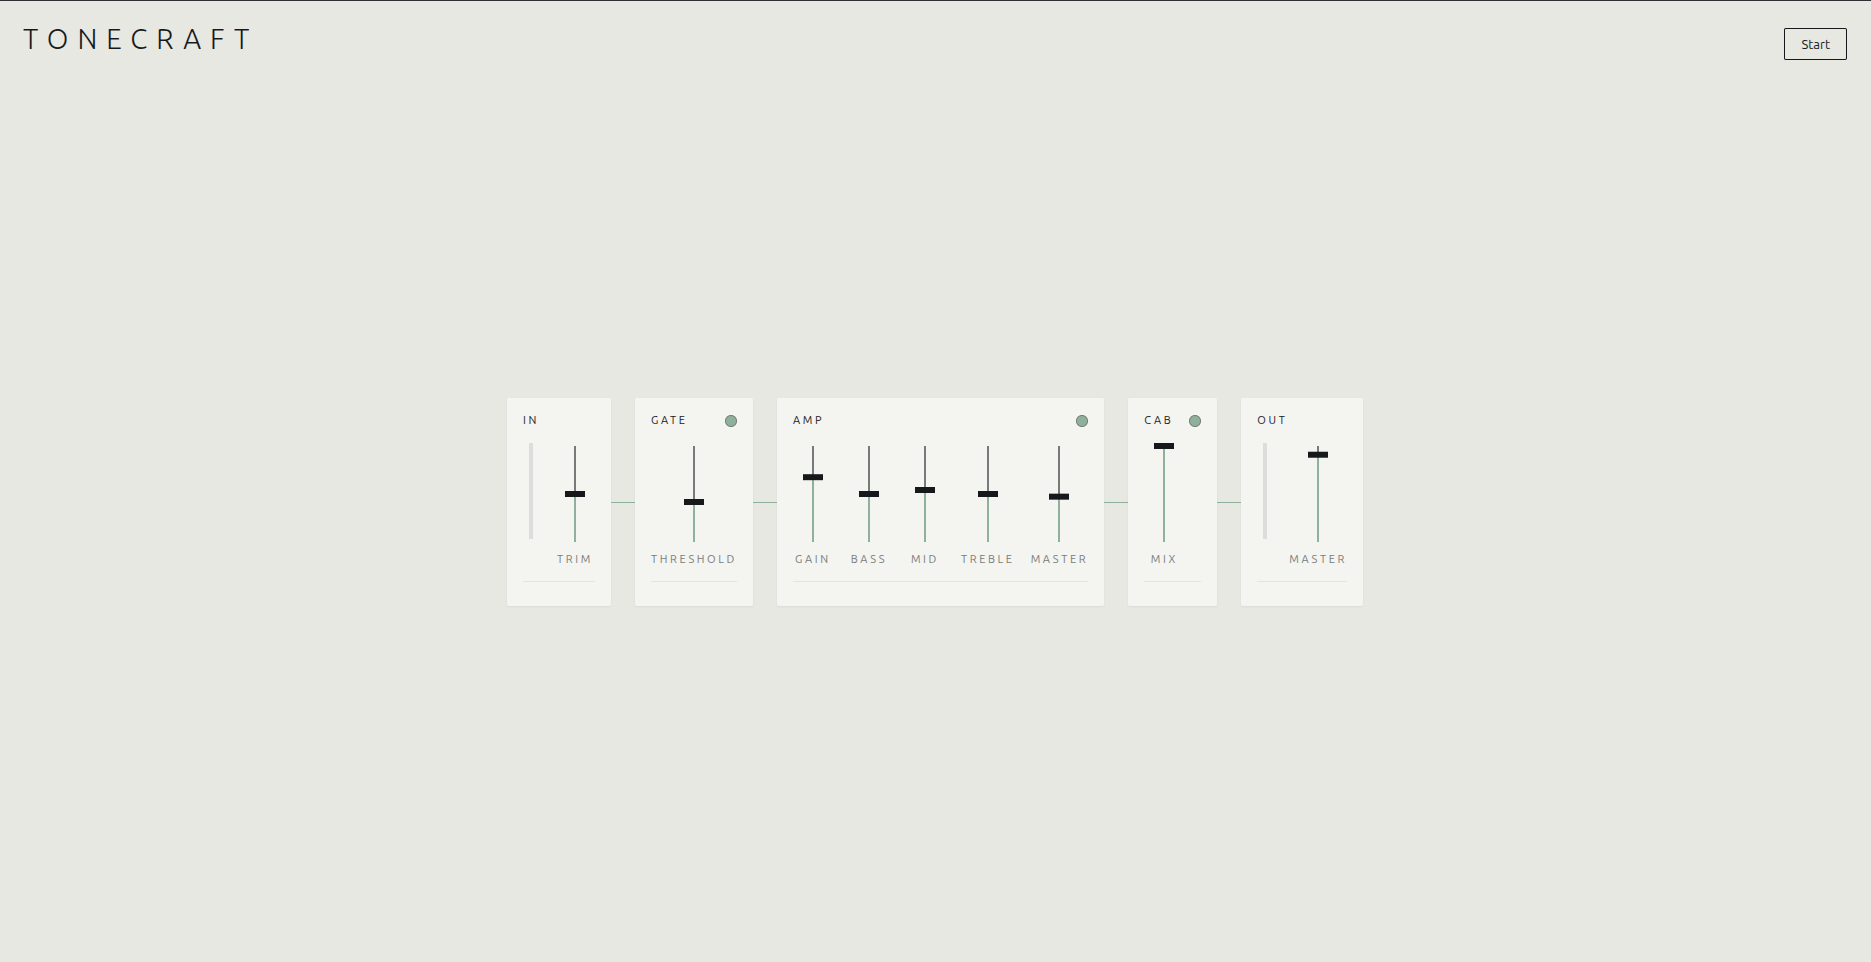
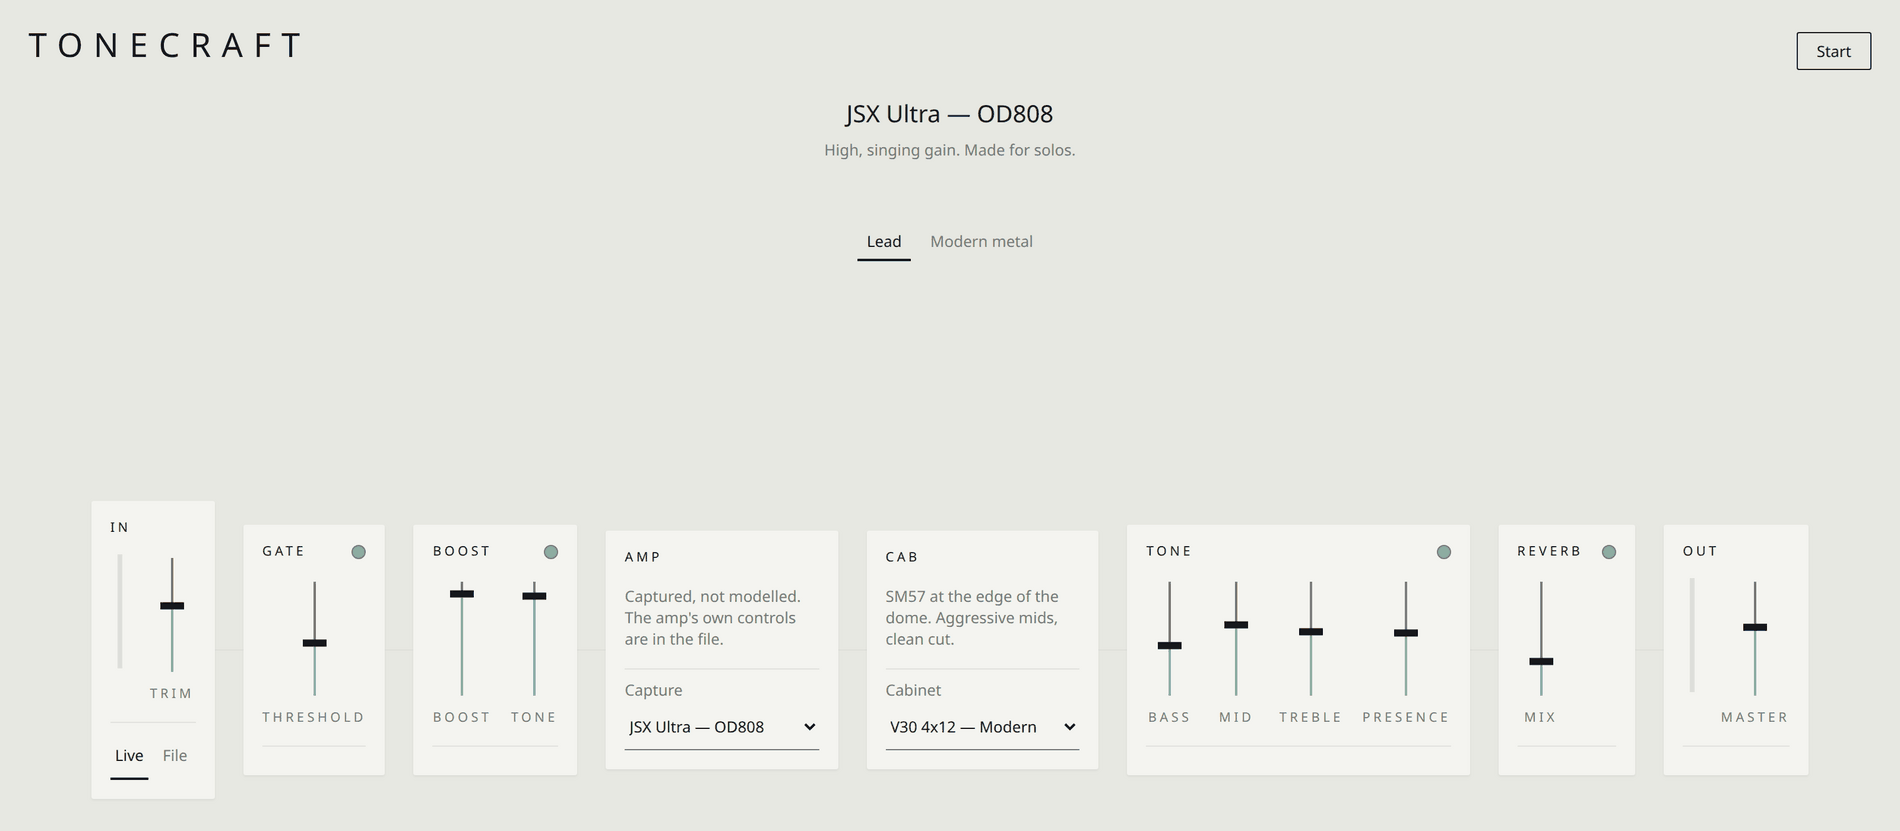
Say what Tonecraft became when the amp stopped being ours
The hand-written C++ cascade is gone: the amplifier is now a Neural Amp
Modeler capture run by the upstream engine in WebAssembly, and what the
project writes is everything around it — gate, boost, cabinet, four-band
correction, reverb, limiter.

So the old account was wrong in the parts that mattered. It named C++ as
the stack, and it claimed a build-time render path that does not exist:
the offline renderer went with the cascade. What replaced it is the
opening sheet, the demo take, and the one button that turns the whole
simulation off against a level-matched direct path.

The capture is retaken from the deployed site, which now shows eight
modules rather than five.

Claude-Session: https://claude.ai/code/session_0193cVLcMuHhNxxehwk86NAY

diff --git a/content/projects.ts b/content/projects.ts
@@ -61,24 +61,25 @@ export const projects: readonly Project[] = [
     title: "Tonecraft",
     subtitle: "ampli guitare dans le navigateur",
     description:
-      "Ampli et effets guitare jouables dans un onglet, sans rien installer\u00A0: les étages du signal sont écrits en C++, compilés en WebAssembly et exécutés dans un AudioWorklet.",
+      "Ampli et effets guitare jouables dans un onglet, sans rien installer\u00A0: l’ampli est une capture Neural Amp Modeler exécutée en WebAssembly, le baffle, le boost, la correction et la réverbération sont écrits dans le projet, et toute la chaîne tourne dans un AudioWorklet.",
     highlights: [
-      "Étages du signal écrits en C++ et compilés en WebAssembly",
-      "Traitement exécuté dans un AudioWorklet",
-      "Jouable dans un onglet, sans rien installer",
+      "Ampli\u00A0: une capture Neural Amp Modeler exécutée en WebAssembly",
+      "Baffle, boost, correction et réverbération écrits dans le projet",
+      "Chaîne complète exécutée dans un AudioWorklet, sans rien à installer",
     ],
     approach: [
       "Obtenir un bon son de guitare sur un ordinateur demande aujourd’hui une licence et une après-midi\u00A0: installer un hôte, installer un greffon, installer un pilote, puis découvrir que tout arrive avec quarante millisecondes de retard. Tonecraft prend le problème par l’autre bout\u00A0: une adresse, rien à installer, et le son dans l’onglet.",
-      "La décision qui arbitre tout le reste, c’est que le moteur n’est pas le produit. Il tourne à la compilation pour rendre à l’avance ce que la plupart des visiteurs entendront, et en temps réel seulement pour ceux qui branchent une guitare. Écouter est le cas fréquent, jouer est le cas rare, et l’architecture est rangée dans cet ordre.",
-      "Deux contraintes tiennent l’ensemble. Aucun serveur\u00A0: le site est un jeu de fichiers statiques servis par GitHub Pages, sans base de données, sans compte et sans donnée personnelle. Et une qualité fixe, jamais adaptée à la machine\u00A0: un son partagé par lien doit sonner pareil chez celui qui l’ouvre, ce qu’un moteur se dégradant tout seul rendrait impossible.",
-      "La chaîne fonctionne aujourd’hui de bout en bout\u00A0: noise gate, ampli, baffle, limiteur. Les étages sont écrits en C++, compilés en WebAssembly et exécutés dans un AudioWorklet, donc jamais sur le fil principal de la page. L’ampli est décrit en Faust\u00A0: quatre étages de gain modérés plutôt qu’un seul violent, un passe-haut devant chacun pour que les basses ne tournent pas en boue, un passe-bas derrière pour tenir la fizz, et un suréchantillonnage quatre fois autour de la fenêtre non linéaire.",
-      "Le reste tient dans une règle\u00A0: ce qui est mesuré est montré. La latence aller-retour est affichée, les décrochages sont comptés, et une entrée audio médiocre — l’entrée micro d’un portable, qui n’offre pas l’impédance qu’attend un micro de guitare — est diagnostiquée et nommée. Rien n’est jamais bloqué\u00A0: qui ne peut pas distinguer un mauvais branchement d’un mauvais moteur accusera le moteur.",
-      "Rien de compilé n’entre dans le dépôt. L’intégration continue compile le WebAssembly et publie le site à chaque commit, si bien que la page en ligne est exactement l’image d’une version et qu’un retour en arrière est un revert. Ce qui manque est écrit noir sur blanc dans le dépôt\u00A0: l’overdrive, le compresseur, la réverbération, l’accordeur et le chemin d’écoute sans JavaScript sont spécifiés et pas encore branchés.",
+      "L’ampli a d’abord été écrit à la main, en C++ compilé en WebAssembly. À partir du moment où la chaîne a été mesurée contre une référence plutôt que discutée, il a cédé la place à une capture Neural Amp Modeler\u00A0: un modèle entraîné sur un vrai amplificateur, vérifié contre celui qui l’a entraîné, et exécuté ici par le moteur d’origine compilé en WebAssembly. Il n’y a plus de chaîne de compilation C++ dans le dépôt\u00A0: un clone neuf n’a besoin de rien d’autre que d’un npm ci.",
+      "Une capture est l’instantané figé d’un ampli à un réglage\u00A0: son gain, son canal et son égalisation sont dans le fichier et ne se pilotent pas. L’ampli et le baffle ne portent donc aucun curseur à l’écran, parce qu’inventer un bouton qui ne ferait rien serait mentir sur ce qu’est une capture. Ce qui se décide, c’est ce qu’on envoie dedans et ce qu’on fait de ce qui en sort\u00A0: un noise gate et un boost de type Tube Screamer devant, un baffle, une correction quatre bandes, une réverbération et un limiteur derrière. Le baffle n’est pas une option\u00A0: ces captures sont celles de l’amplificateur seul, mesurées elles sont encore à +5 dB à 7 kHz, là où une capture prise avec un baffle serait 25 dB plus bas.",
+      "La page s’ouvre sur une question, parce que les deux visiteurs ne veulent pas la même chose. «\u00A0J’ai une guitare\u00A0» ouvre l’entrée audio. «\u00A0Fais-moi juste entendre\u00A0» charge une prise livrée avec le site et n’appelle jamais getUserMedia\u00A0: aucune demande de permission, aucun périphérique ouvert, rien qui écoute. Une boîte de dialogue de permission devant une démonstration est un péage, et le test navigateur compte les appels plutôt que de croire la phrase.",
+      "Un bouton en haut à droite, ou la touche B, coupe toute la simulation d’un coup\u00A0: c’est la seule façon de répondre à la question qu’un visiteur se pose vraiment : qu’est-ce que ça fait à ma guitare ? Le chemin direct porte 5,9 dB de compensation mesurée pour que les deux soient au même niveau, sans quoi la comparaison n’est plus qu’un test de volume, et le plus fort gagne toujours. Couper coupe aussi l’entrée live, parce qu’écouter le micro d’un portable dans les haut-parleurs est une boucle de larsen, pas une comparaison.",
+      "Le reste tient dans une règle\u00A0: ce qui peut échouer en silence est dit. Quand le moteur ne démarre pas, la chaîne laisse passer le signal sec\u00A0: il y a du son, les indicateurs de niveau bougent, rien n’a l’air cassé. Le worklet confirme donc que la capture tourne, l’interface écrit en toutes lettres qu’on entend sa guitare sèche quand ce n’est pas le cas, et le test de bout en bout en navigateur s’appuie sur cette confirmation à chaque commit. La latence aller-retour reste affichée en permanence, un chiffre et rien de plus\u00A0: le rapport qui l’expliquait a été retiré, parce que sur une machine saine il nommait le tampon du système d’exploitation à chaque image.",
+      "Deux contraintes tiennent l’ensemble. Aucun serveur\u00A0: le site est un jeu de fichiers statiques publié sur GitHub Pages à chaque commit, sans base de données, sans compte et sans donnée personnelle. Et un dépôt qui dit ce qu’il embarque\u00A0: le seul binaire versionné est le moteur d’ampli, épinglé à une version, et les captures d’amplis sont sous licence GPL v3 — le README le dit plutôt que de le laisser découvrir.",
     ],
-    stack: ["Astro", "Svelte", "C++", "WebAssembly", "Web Audio API"],
+    stack: ["Astro", "Svelte", "TypeScript", "WebAssembly", "Web Audio API"],
     image: {
       src: tonecraftShot,
-      alt: "L’interface de Tonecraft\u00A0: les modules In, Gate, Amp, Cab et Out alignés de gauche à droite, chacun portant ses curseurs.",
+      alt: "L’interface de Tonecraft\u00A0: les modules In, Gate, Boost, Amp, Cab, Tone, Reverb et Out alignés de gauche à droite dans l’ordre du signal, chacun portant ses curseurs verticaux, l’ampli et le baffle portant à la place le nom de la capture et du baffle choisis.",
     },
     year: 2026,
     repo: `${GH}Razigue/Tonecraft`,
